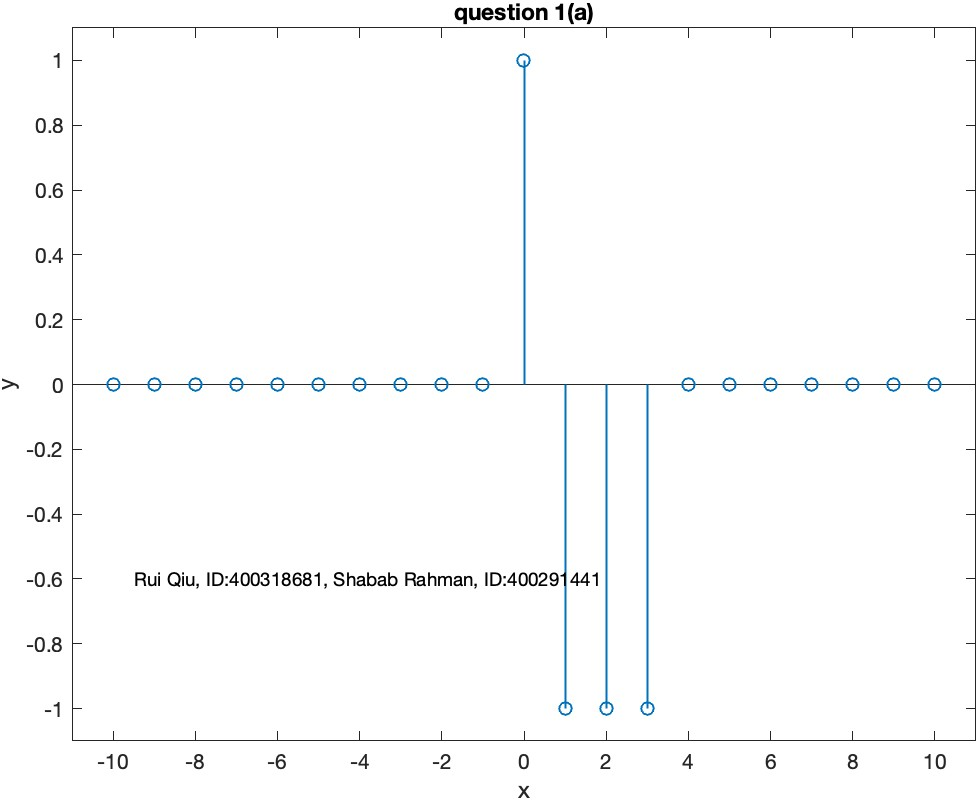
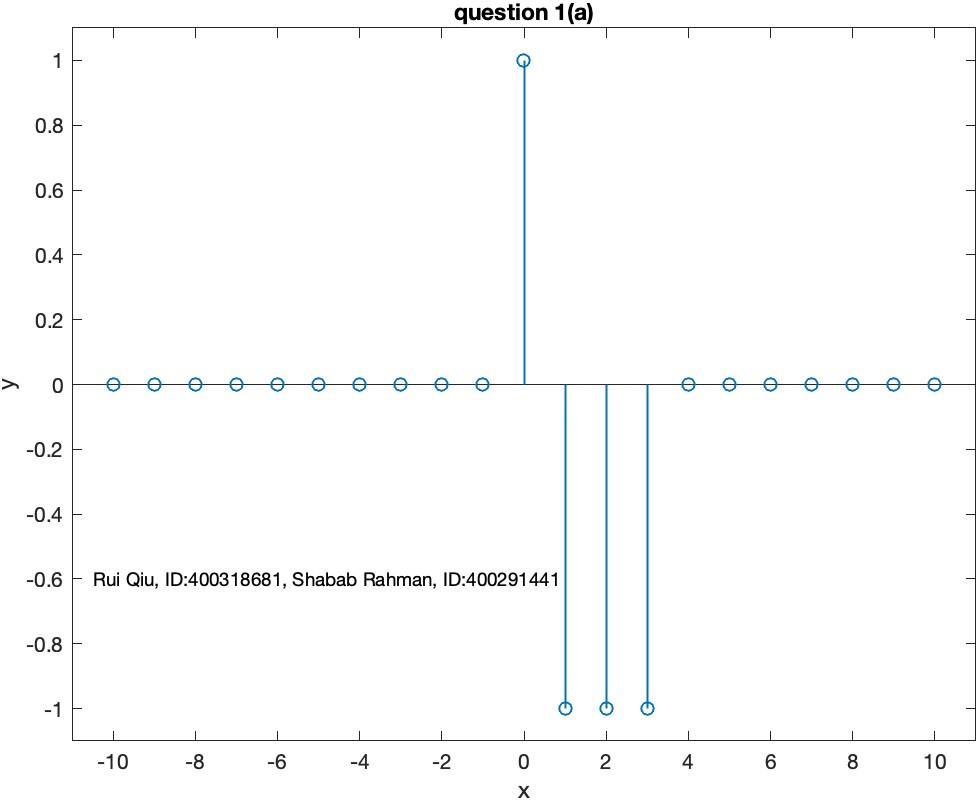
fix

Changed region(s): [[0.092, 0.7188, 0.6135, 0.75]]

diff --git a/lab1/Q1a.m b/lab1/Q1a.m
@@ -10,6 +10,6 @@ axis([min(t)-1 max(t)+1 min(d)-0.1 max(d)+0.1]);
 ylabel('y');
 xlabel('x');
 title('question 1(a)');
-text(-9.5,-0.6,'Rui Qiu, ID:400318681, Shabab Rahman, ID:400291441','Fontsize',9);
+text(-10.5,-0.6,'Rui Qiu, ID:400318681, Shabab Rahman, ID:400291441','Fontsize',9);
 
 exportgraphics(gcf, 'Q1a.jpg');
